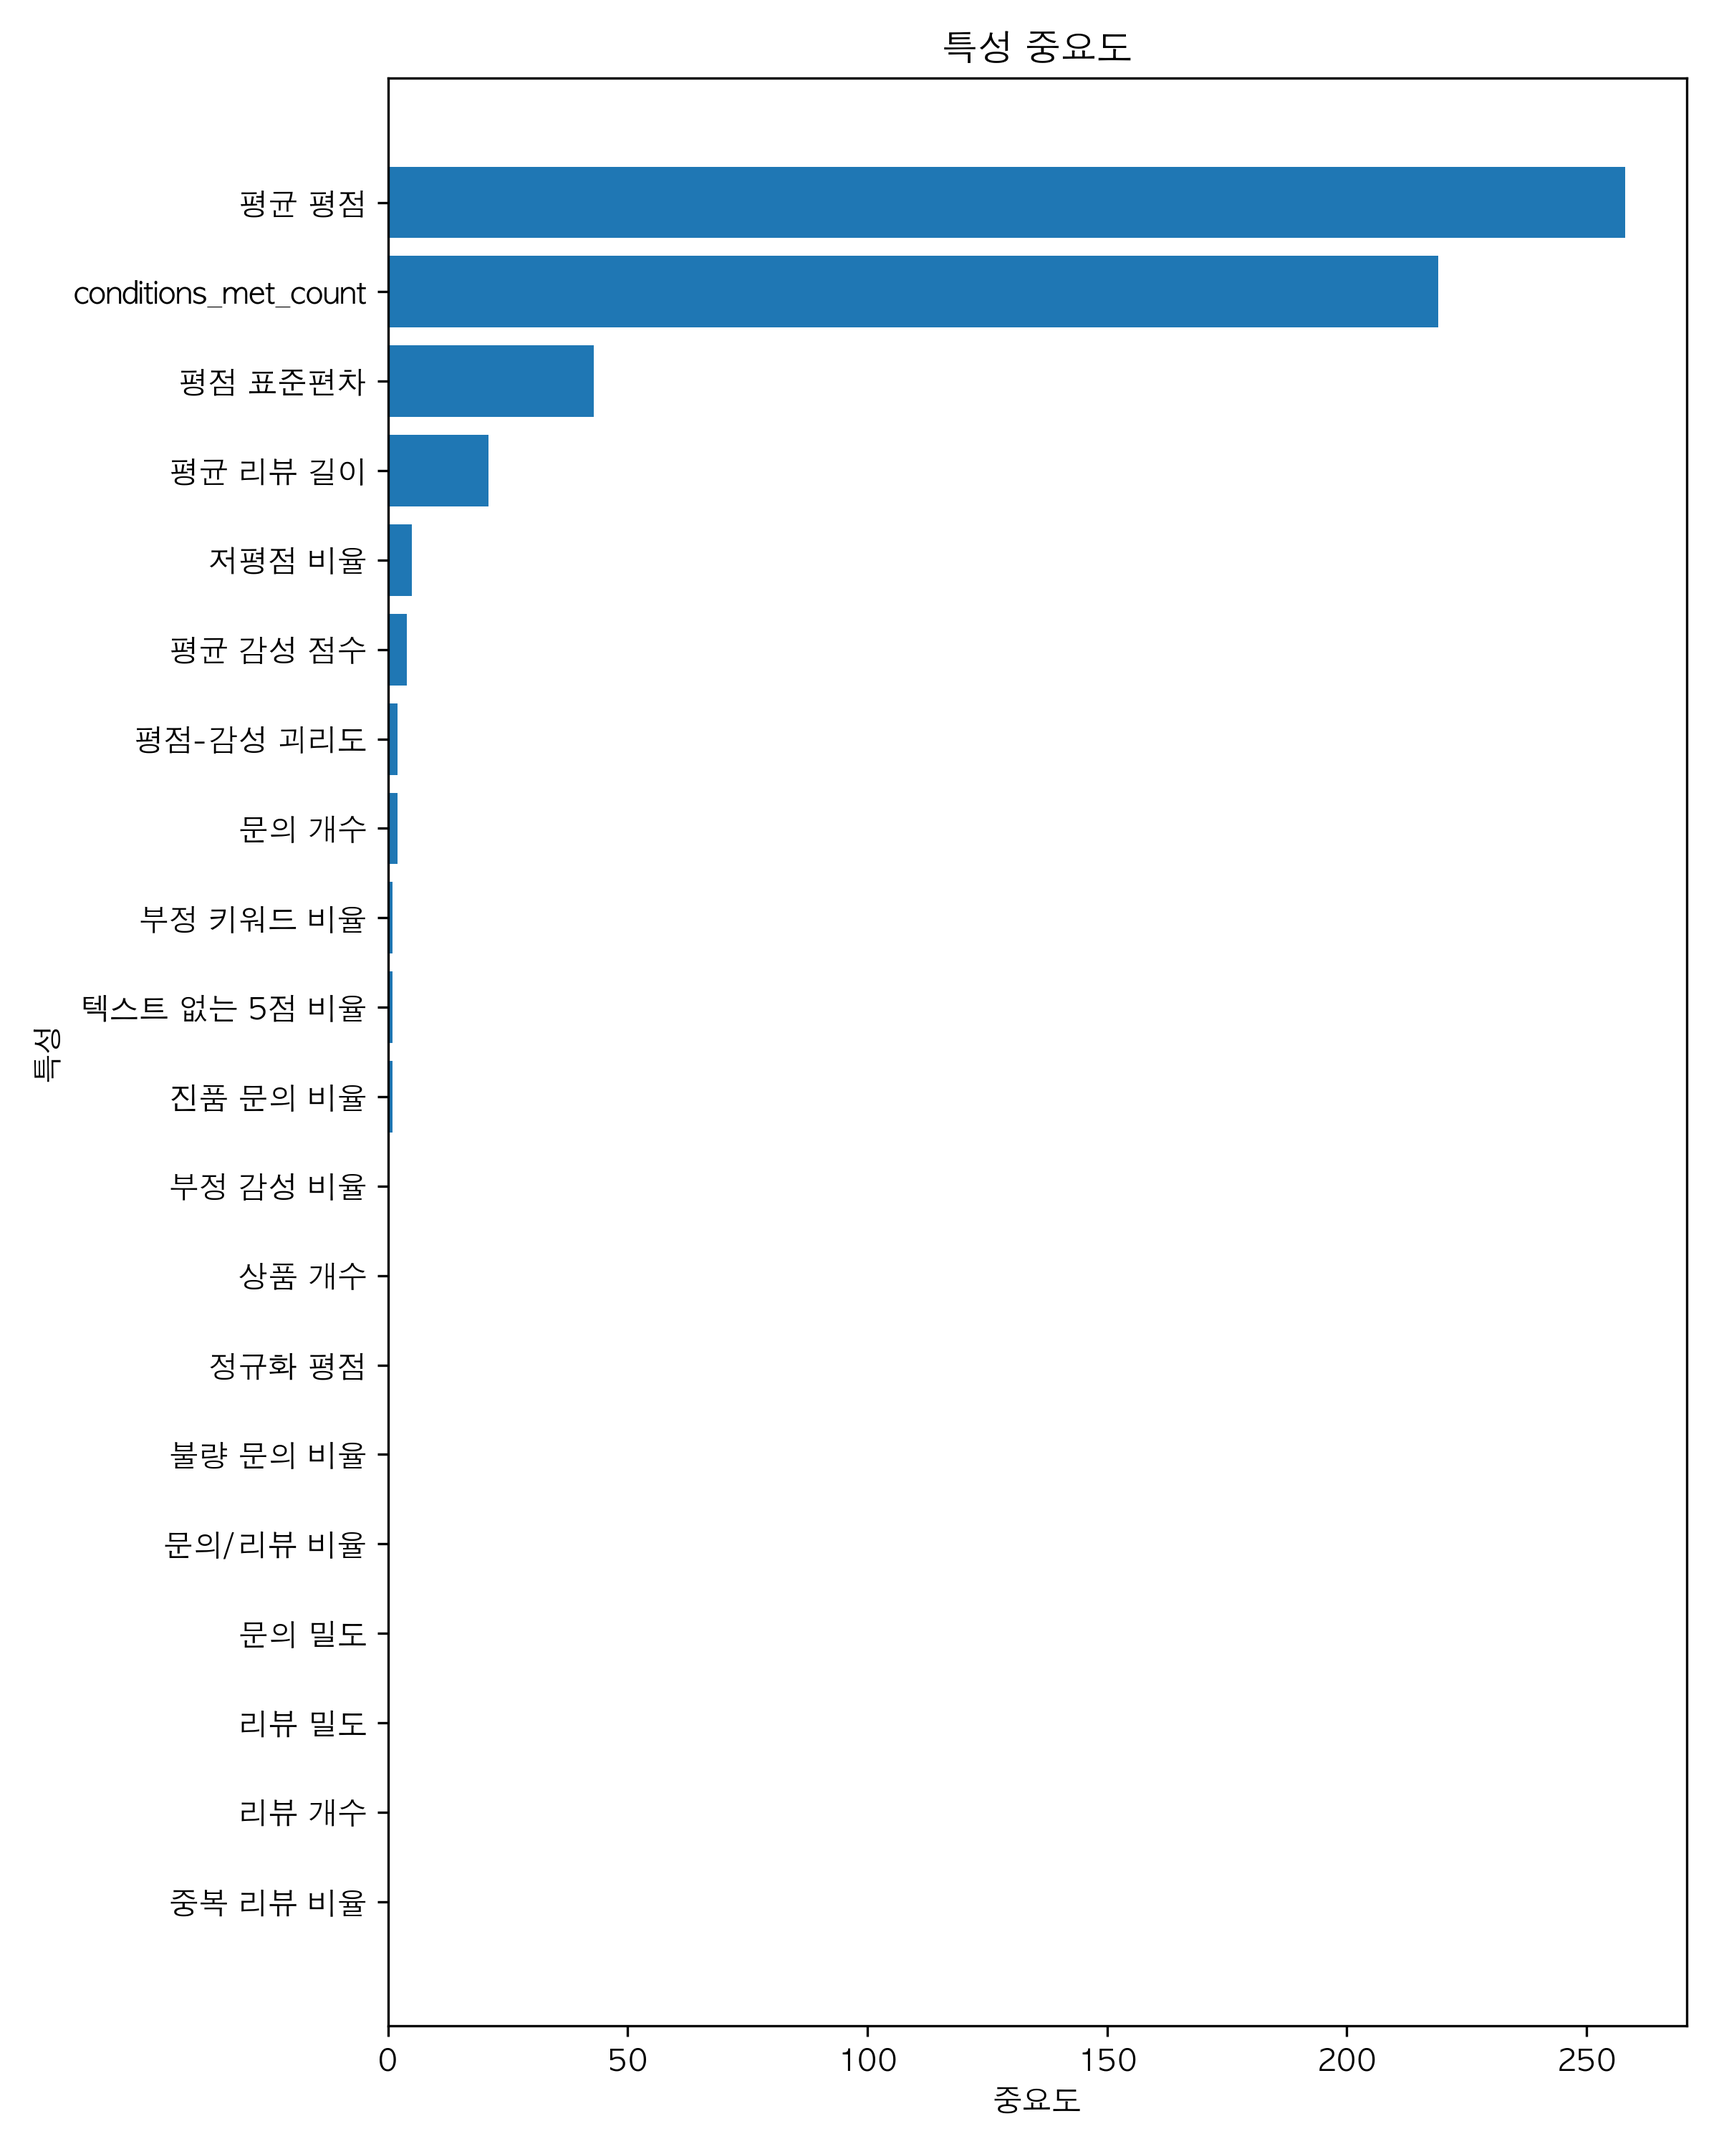
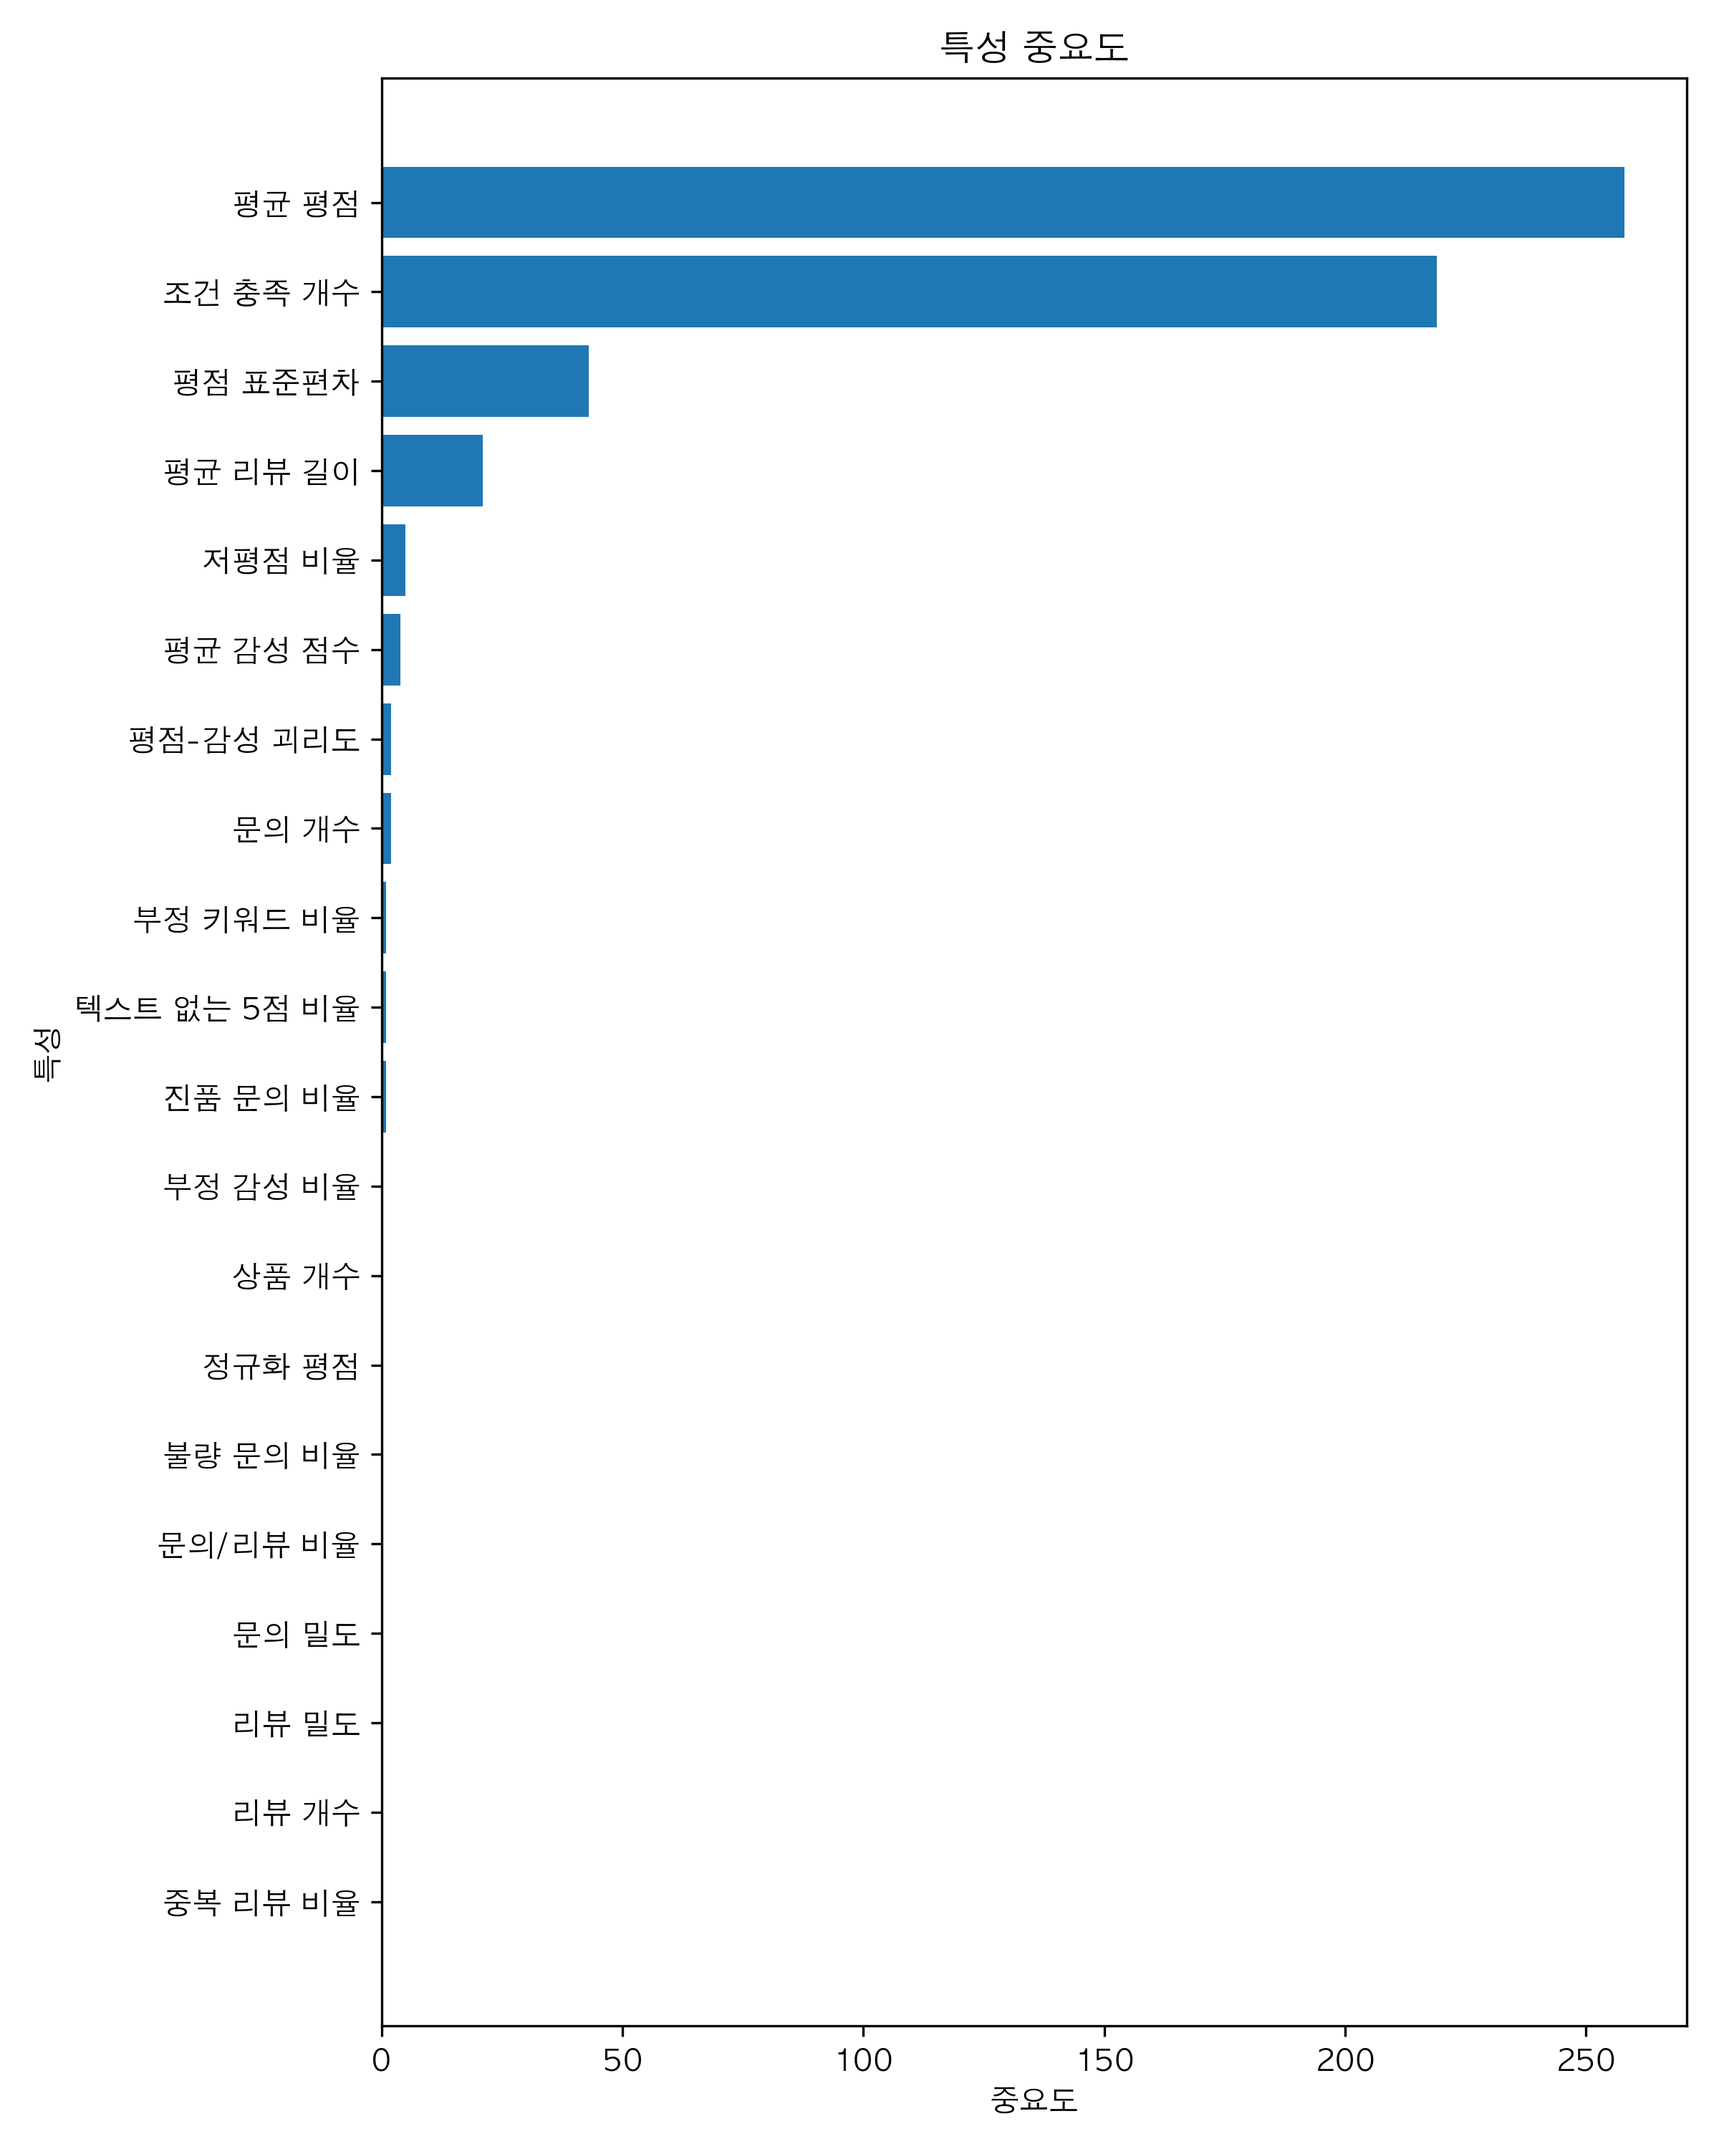
260129 한글화 수정

diff --git a/train_model.py b/train_model.py
@@ -2,117 +2,189 @@ import os
 import pandas as pd
 import numpy as np
 import matplotlib.pyplot as plt
-from matplotlib import font_manager, rc
-from sklearn.model_selection import train_test_split
-from sklearn.metrics import classification_report, confusion_matrix
-import lightgbm as lgb
+import matplotlib.font_manager as fm
+import seaborn as sns
 import shap
 
-# =========================
-# ✅ 한글 폰트 설정 (Mac)
-# =========================
-FONT_PATH = "/System/Library/Fonts/Supplemental/AppleGothic.ttf"
-font_prop = font_manager.FontProperties(fname=FONT_PATH)
-rc("font", family=font_prop.get_name())
+from sklearn.model_selection import train_test_split
+from sklearn.metrics import classification_report, confusion_matrix, roc_curve, roc_auc_score
+from lightgbm import LGBMClassifier
+
+# =============================================================================
+# Mac 한글 폰트 (확정 경로)
+# =============================================================================
+font_path = "/System/Library/Fonts/Supplemental/AppleGothic.ttf"
+font_prop = fm.FontProperties(fname=font_path)
+plt.rcParams["font.family"] = font_prop.get_name()
 plt.rcParams["axes.unicode_minus"] = False
-print(f"✅ 사용 폰트: {FONT_PATH}")
 
-# =========================
-# ✅ 데이터 불러오기
-# =========================
-DATA_PATH = "data/train_data.csv"   # 네 실제 경로에 맞게 유지
-df = pd.read_csv(DATA_PATH)
+print(f"✅ 사용 폰트: {font_path}")
 
-# =========================
-# ✅ 대시보드 컬럼명 통일
-# =========================
-TARGET_COL = "악성여부"
-DROP_COLS = ["vendor_name"]  # 문자열 컬럼 제거
+# =============================================================================
+# Feature 이름 한글 매핑 (create_dashboard.py와 동일)
+# =============================================================================
+feature_names_kr = {
+    'refund_question_ratio': '환불 문의 비율',
+    'rating_sentiment_gap': '평점-감성 괴리도',
+    'question_review_ratio': '문의/리뷰 비율',
+    'defect_question_ratio': '불량 문의 비율',
+    'negative_keyword_ratio': '부정 키워드 비율',
+    'avg_review_length': '평균 리뷰 길이',
+    'review_count': '리뷰 개수',
+    'negative_sentiment_ratio': '부정 감성 비율',
+    'review_density': '리뷰 밀도',
+    'textless_5star_ratio': '텍스트 없는 5점 비율',
+    'question_density': '문의 밀도',
+    'avg_rating': '평균 평점',
+    'rating_std': '평점 표준편차',
+    'low_rating_ratio': '저평점 비율',
+    'duplicate_review_ratio': '중복 리뷰 비율',
+    'question_count': '문의 개수',
+    'authenticity_question_ratio': '진품 문의 비율',
+    'avg_sentiment_score': '평균 감성 점수',
+    'rating_normalized': '정규화 평점',
+    'product_count': '상품 개수',
+    'conditions_met_count': '조건 충족 개수'
+}
 
-X = df.drop(columns=[TARGET_COL] + DROP_COLS)
-y = df[TARGET_COL]
+# =============================================================================
+# 출력 폴더
+# =============================================================================
+os.makedirs("output", exist_ok=True)
 
-# =========================
-# ✅ train / test split
-# =========================
+# =============================================================================
+# 데이터 로드
+# =============================================================================
+df = pd.read_csv("output/seller_features.csv")
+df["label_name"] = df["abusive_label"].map({0: "정상", 1: "악성"})
+
+# 모델 입력 (문자열 컬럼 제거)
+drop_cols = ["vendor_name", "label_name"]
+X = df.drop(columns=["abusive_label"] + drop_cols)
+y = df["abusive_label"]
+
+# =============================================================================
+# 학습 / 테스트 분리
+# =============================================================================
 X_train, X_test, y_train, y_test = train_test_split(
     X, y, test_size=0.2, random_state=42, stratify=y
 )
 
-# =========================
-# ✅ LightGBM 모델
-# =========================
-model = lgb.LGBMClassifier(
-    n_estimators=200,
+# =============================================================================
+# 모델 학습
+# =============================================================================
+model = LGBMClassifier(
+    n_estimators=300,
     learning_rate=0.05,
     random_state=42
 )
-
 model.fit(X_train, y_train)
 
-# =========================
-# ✅ 예측 & 리포트
-# =========================
+# =============================================================================
+# 예측
+# =============================================================================
 y_pred = model.predict(X_test)
+y_prob = model.predict_proba(X_test)[:, 1]
 
 print("\n📊 분류 리포트")
 print(classification_report(y_test, y_pred, target_names=["정상", "악성"]))
 
-# =========================
-# ✅ 혼동행렬 시각화
-# =========================
+# =============================================================================
+# Feature Importance 저장
+# =============================================================================
+feature_importance = pd.DataFrame({
+    "feature": X.columns,
+    "feature_kr": [feature_names_kr.get(f, f) for f in X.columns],
+    "importance": model.feature_importances_
+}).sort_values(by="importance", ascending=False)
+
+feature_importance.to_csv("output/feature_importance.csv", index=False)
+
+# =============================================================================
+# 05. 혼동 행렬
+# =============================================================================
 cm = confusion_matrix(y_test, y_pred)
 
-plt.figure(figsize=(5, 4))
-plt.imshow(cm, cmap="Blues")
-plt.title("혼동행렬")
+plt.figure(figsize=(6, 5))
+sns.heatmap(
+    cm, annot=True, fmt="d", cmap="Blues",
+    xticklabels=["예측: 정상", "예측: 악성"],
+    yticklabels=["실제: 정상", "실제: 악성"]
+)
+plt.title("혼동 행렬")
 plt.xlabel("예측값")
 plt.ylabel("실제값")
-plt.xticks([0, 1], ["정상", "악성"])
-plt.yticks([0, 1], ["정상", "악성"])
-
-for i in range(2):
-    for j in range(2):
-        plt.text(j, i, cm[i, j], ha="center", va="center")
-
 plt.tight_layout()
-plt.savefig("05_혼동행렬.png", dpi=150)
+plt.savefig("output/05_혼동행렬.png", dpi=300)
 plt.close()
 
-# =========================
-# ✅ Feature Importance
-# =========================
-importances = model.feature_importances_
-features = X.columns
+# =============================================================================
+# 06. ROC 곡선
+# =============================================================================
+fpr, tpr, _ = roc_curve(y_test, y_prob)
+auc = roc_auc_score(y_test, y_prob)
 
-fi_df = pd.DataFrame({
-    "특성": features,
-    "중요도": importances
-}).sort_values(by="중요도", ascending=False)
+plt.figure(figsize=(6, 5))
+plt.plot(fpr, tpr, label=f"AUC = {auc:.3f}")
+plt.plot([0, 1], [0, 1], linestyle="--")
+plt.title("ROC 곡선")
+plt.xlabel("False Positive Rate")
+plt.ylabel("True Positive Rate")
+plt.legend()
+plt.tight_layout()
+plt.savefig("output/06_ROC곡선.png", dpi=300)
+plt.close()
 
-plt.figure(figsize=(8, 6))
-plt.barh(fi_df["특성"], fi_df["중요도"])
-plt.gca().invert_yaxis()
+# =============================================================================
+# 07. 특성 중요도
+# =============================================================================
+top20 = feature_importance.head(20).iloc[::-1]
+
+plt.figure(figsize=(8, 10))
+plt.barh(top20["feature_kr"], top20["importance"])
 plt.title("특성 중요도")
 plt.xlabel("중요도")
-
+plt.ylabel("특성")
 plt.tight_layout()
-plt.savefig("06_특성중요도.png", dpi=150)
+plt.savefig("output/07_특성중요도.png", dpi=300)
 plt.close()
 
-# =========================
-# ✅ SHAP 값
-# =========================
+# =============================================================================
+# 08. SHAP 요약
+# =============================================================================
 explainer = shap.TreeExplainer(model)
 shap_values = explainer.shap_values(X_train)
 
+if isinstance(shap_values, list):
+    shap_values_to_plot = shap_values[1]
+else:
+    shap_values_to_plot = shap_values
+
+X_train_kr = X_train.copy()
+X_train_kr.columns = [feature_names_kr.get(c, c) for c in X_train.columns]
+
 plt.figure()
-shap.summary_plot(shap_values[1], X_train, show=False)
+shap.summary_plot(shap_values_to_plot, X_train_kr, show=False)
+plt.title("SHAP 요약 그래프")
 plt.tight_layout()
-plt.savefig("07_SHAP_요약.png", dpi=150)
+plt.savefig("output/08_SHAP요약.png", dpi=300)
 plt.close()
 
-print("\n✅ 이미지 저장 완료:")
-print("05_혼동행렬.png")
-print("06_특성중요도.png")
-print("07_SHAP_요약.png")
+# =============================================================================
+# 예측 결과 저장 (대시보드용)
+# =============================================================================
+predictions = pd.DataFrame({
+    "actual": y_test.values,
+    "predicted": y_pred,
+    "probability": y_prob
+})
+predictions.to_csv("output/prediction_results.csv", index=False)
+
+print("\n✅ 학습 및 그래프 생성 완료")
+print("📁 생성 파일:")
+print(" - output/05_혼동행렬.png")
+print(" - output/06_ROC곡선.png")
+print(" - output/07_특성중요도.png")
+print(" - output/08_SHAP요약.png")
+print(" - output/feature_importance.csv")
+print(" - output/prediction_results.csv")
